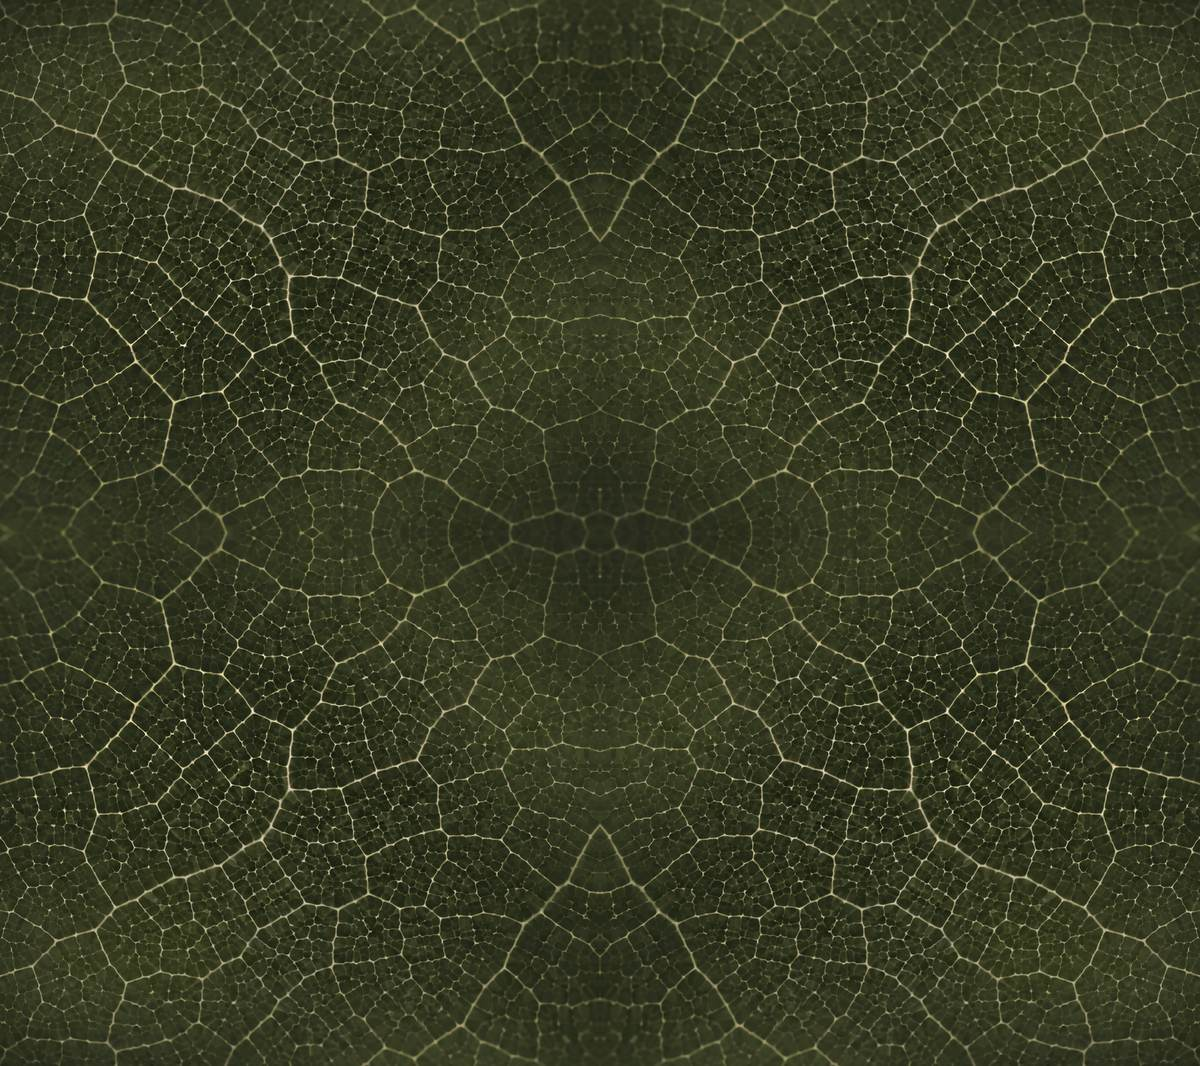
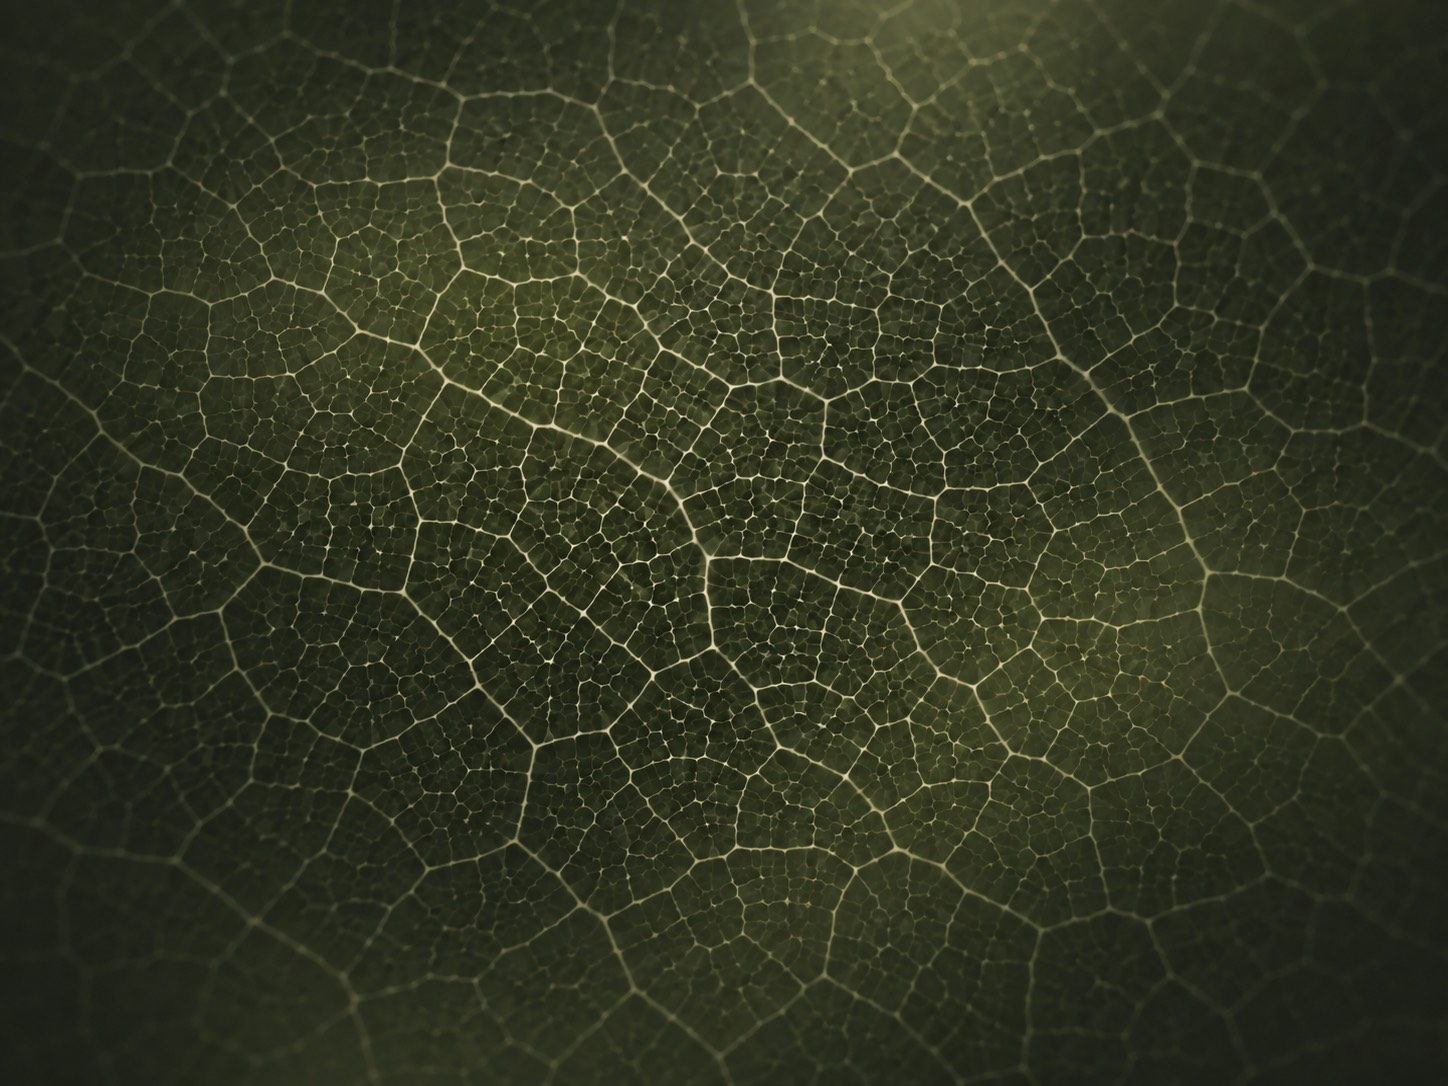
Bladmønster: hele fotoet som baggrund (ingen fliser), og otte forskellige udsnit i badges
Baggrund og bundmenu bruger nu makrofotoet i ét stykke, skaleret til skærmen.
Badges får hver sit udsnit af bladårerne via --leaf-pos, sat af en lille
MutationObserver (src/lib/leafBadges.ts), så en række badges ikke ser ens ud.

Changed region(s): [[0.0, 0.0, 1.0, 1.0], [0.4317, 0.9906, 0.4625, 1.0], [0.2158, 0.9906, 0.2467, 1.0]]

diff --git a/src/index.css b/src/index.css
@@ -540,7 +540,7 @@ h1 {
       color-mix(in srgb, var(--badge-color) 26%, transparent)
     ),
     linear-gradient(rgb(18 31 29 / 0.5), rgb(18 31 29 / 0.5)),
-    var(--leaf-veins) center / 300% auto no-repeat;
+    var(--leaf-veins) var(--leaf-pos, 50% 50%) / 300% auto no-repeat;
   border-color: color-mix(in srgb, var(--badge-color) 48%, transparent) !important;
   box-shadow:
     0 0 14px color-mix(in srgb, var(--badge-color) 22%, transparent),
@@ -691,13 +691,12 @@ input {
 /*
  * ===== Bladmønster =====
  * Det gentagende naturmotiv: bladets årer (leaf-veins) i guldknapperne, og et fint blad-mesh
- * (leaf-mesh, en sømløs spejl-flise af brugerens makrofoto) bag hele appen og bag bundmenuen.
- * Fliseudsnittet styres med --leaf-tile: mindre tal = finere mønster.
+ * (leaf-mesh, brugerens makrofoto i ét stykke) bag hele appen og bag bundmenuen.
+ *
  */
 :root {
   --leaf-mesh: url("./assets/leaf-mesh.jpg");
   --leaf-veins: url("./assets/leaf-veins.jpg");
-  --leaf-tile: 210px;
 }
 
 /* Baggrund bag hele appen: sløret, kun årerne lyser svagt igennem det mørke. */
@@ -705,7 +704,8 @@ input {
   content: "";
   position: absolute;
   inset: -12px;
-  background: var(--leaf-mesh) center top / var(--leaf-tile) auto repeat;
+  /* Ét stort foto, ikke fliser: skaleres til at dække skærmen. */
+  background: var(--leaf-mesh) center / cover no-repeat;
   opacity: 0.3;
   filter: blur(0.4px) contrast(1.8) brightness(1.3) saturate(0.7);
   mix-blend-mode: screen;
@@ -724,5 +724,5 @@ input {
 nav.fixed {
   background:
     linear-gradient(180deg, rgb(10 21 22 / 0.86), rgb(10 21 22 / 0.94)),
-    var(--leaf-mesh) center top / var(--leaf-tile) auto repeat;
+    var(--leaf-mesh) center / cover no-repeat;
 }

diff --git a/src/lib/leafBadges.ts b/src/lib/leafBadges.ts
@@ -1,0 +1,18 @@
+/*
+ * Giver hver ikon-badge sit eget udsnit af bladet, så en række badges under hinanden ikke viser
+ * det samme stykke åre. Otte udsnit roterer i DOM-rækkefølge; CSS'en (.cat-badge) læser --leaf-pos.
+ * ponytail: en MutationObserver frem for at røre alle 17 steder, der tegner en badge.
+ */
+const SPOTS = ["12% 18%", "78% 22%", "40% 62%", "88% 74%", "22% 84%", "60% 10%", "6% 50%", "70% 46%"];
+
+export function startLeafBadges(root: HTMLElement) {
+  let next = 0;
+  const assign = () => {
+    for (const el of root.querySelectorAll<HTMLElement>(".cat-badge:not([data-leaf])")) {
+      el.dataset.leaf = "";
+      el.style.setProperty("--leaf-pos", SPOTS[next++ % SPOTS.length]);
+    }
+  };
+  assign();
+  new MutationObserver(assign).observe(root, { childList: true, subtree: true });
+}

diff --git a/src/main.tsx b/src/main.tsx
@@ -4,6 +4,7 @@ import { BrowserRouter } from 'react-router-dom'
 import App from './App.tsx'
 import { seedDefaultExercisesIfNeeded } from './db/exerciseSeed'
 import { seedDefaultQuotesIfNeeded } from './db/quotes'
+import { startLeafBadges } from './lib/leafBadges'
 import './index.css'
 import { registerSW } from 'virtual:pwa-register'
 
@@ -14,7 +15,9 @@ async function bootstrap() {
   await seedDefaultExercisesIfNeeded()
   await seedDefaultQuotesIfNeeded()
 
-  createRoot(document.getElementById('root')!).render(
+  const root = document.getElementById('root')!
+  startLeafBadges(root)
+  createRoot(root).render(
     <StrictMode>
       <BrowserRouter>
         <App />
